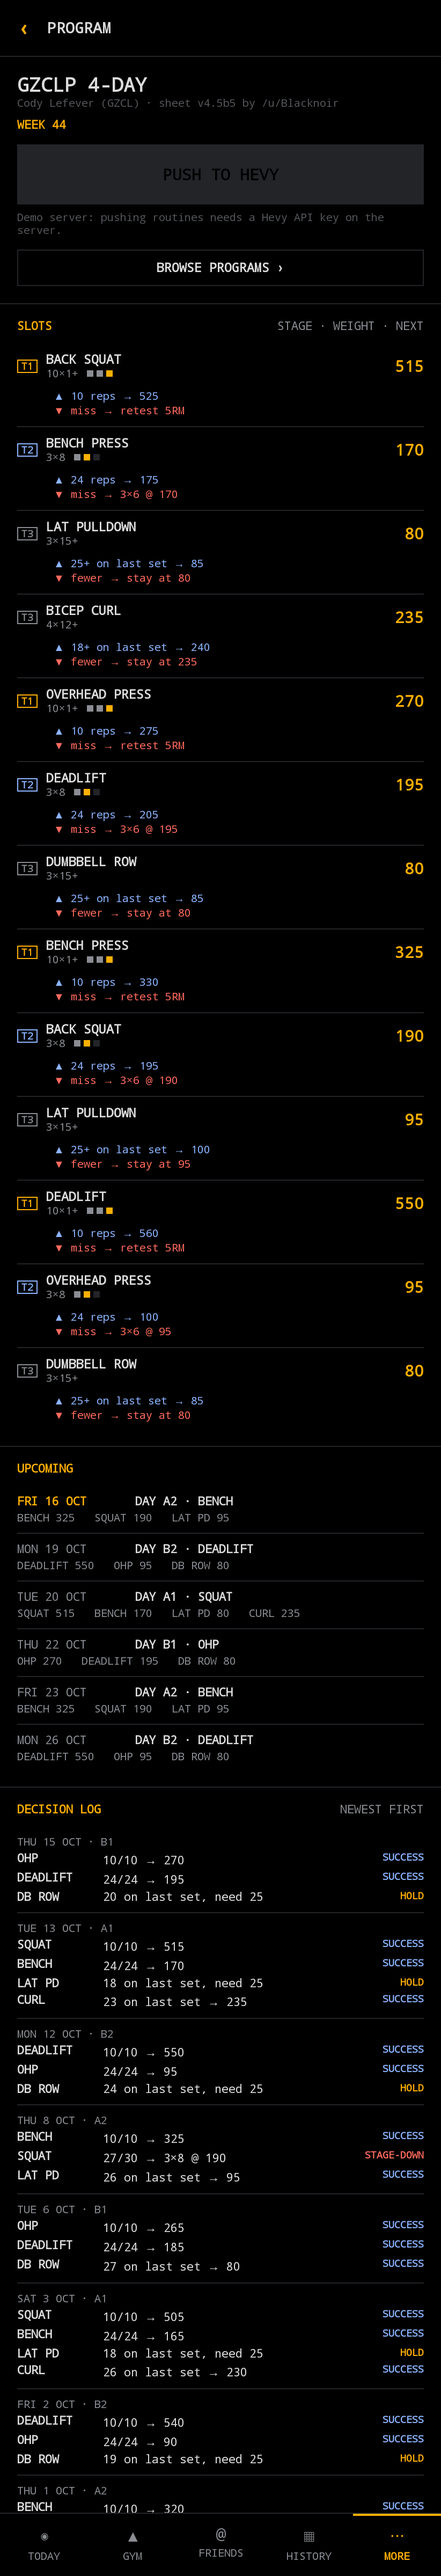
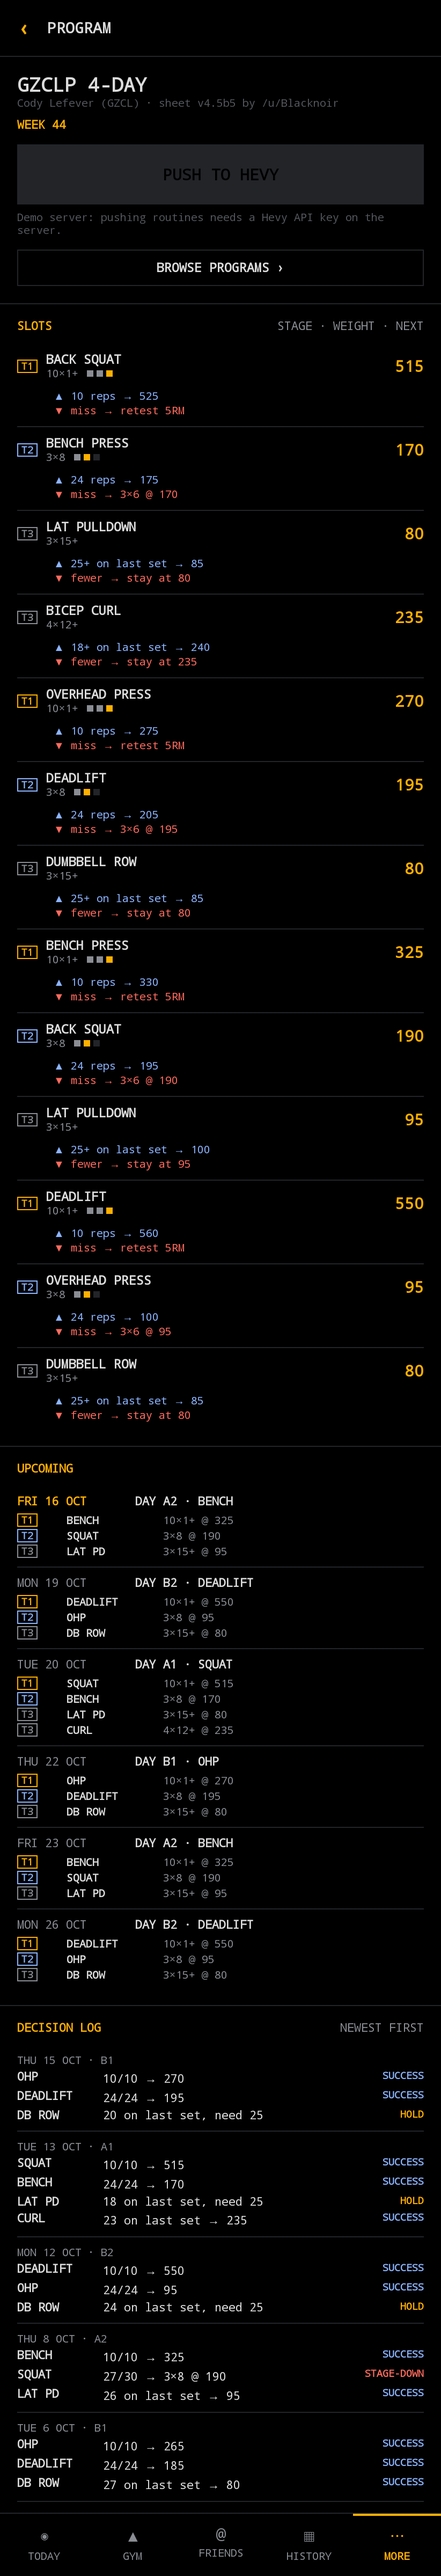
fix: whole-number cardio distance/duration for Hevy; Android upcoming one row per exercise (#111)
Hevy rejects fractional distance_meters/duration_seconds ("Expected integer,
received float"), so a cardio set logged in miles could never finish (502
on /api/live/finish). Round both on the server and in Android Direct mode.

Android's Upcoming list joined every exercise into one wrapped line and
dropped the scheme; show one row per exercise like iOS.

diff --git a/android/app/src/main/java/dev/ironterm/gym/Live.kt b/android/app/src/main/java/dev/ironterm/gym/Live.kt
@@ -18,6 +18,7 @@ import java.time.format.DateTimeFormatter
 import kotlin.math.floor
 import kotlin.math.max
 import kotlin.math.min
+import kotlin.math.roundToLong
 import kotlin.random.Random
 
 // Kotlin port of web/shared/live.ts: the in-progress gym session, logged set by set, written to
@@ -504,8 +505,9 @@ object Live {
                             type = x.type,
                             weight_kg = if (ex.isCardio) null else kg(x.weight),
                             reps = if (ex.isCardio) null else x.reps,
-                            distance_meters = x.distanceM,
-                            duration_seconds = x.durationSec,
+                            // Hevy rejects fractional values; miles → m is rarely whole.
+                            distance_meters = x.distanceM?.roundToLong(),
+                            duration_seconds = x.durationSec?.roundToLong(),
                             rpe = x.rpe,
                             custom_metric = null,
                         )
@@ -546,8 +548,8 @@ data class HevyWorkoutBody(val workout: Workout) {
         val type: String,
         val weight_kg: Double?,
         val reps: Int?,
-        val distance_meters: Double?,
-        val duration_seconds: Double?,
+        val distance_meters: Long?,
+        val duration_seconds: Long?,
         val rpe: Double?,
         val custom_metric: Double?,
     )

diff --git a/android/app/src/main/java/dev/ironterm/ui/MoreScreens.kt b/android/app/src/main/java/dev/ironterm/ui/MoreScreens.kt
@@ -298,7 +298,14 @@ fun ProgramScreen(state: UiState, data: DataUi, actions: AppActions, onBack: () 
                                     Mono(u.dayName.uppercase(), Modifier.weight(1f), size = 11.sp, bold = true, maxLines = 1)
                                 }
                                 Spacer(Modifier.height(3.dp))
-                                Mono(u.exercises.joinToString("   ") { "${it.short} ${it.summary.substringAfter("@").trim().let { w -> if (it.summary.contains("@")) w else it.summary }}" }, size = 10.sp, color = T.dim, maxLines = 2)
+                                // One row per exercise, like iOS: a joined line wrapped mid-list and dropped the scheme.
+                                u.exercises.forEach { e ->
+                                    Row(Modifier.fillMaxWidth().padding(top = 2.dp), verticalAlignment = Alignment.CenterVertically) {
+                                        Box(Modifier.width(46.dp)) { TierTag(e.tier) }
+                                        Mono(e.short, Modifier.width(90.dp), size = 10.sp, bold = true, maxLines = 1)
+                                        Mono(e.summary, Modifier.weight(1f), size = 10.sp, color = T.dim, maxLines = 1)
+                                    }
+                                }
                             }
                         }
                     }

diff --git a/web/shared/live.test.ts b/web/shared/live.test.ts
@@ -46,4 +46,13 @@ describe("live session", () => {
     expect(st.log[0].dayId).toBe("A1");
     expect(st.slots["a1-t1"].weight).toBe(195);
   });
+
+  it("sends whole-number cardio distance and duration (Hevy 400s on floats)", () => {
+    const s = emptySession("lb", "2026-11-07T21:36:54Z", "America/New_York");
+    s.exercises.push({ id: "b", lift: "cardio", title: "Recumbent Bike", templateId: "7FD2EC3E", restSeconds: 0, cardio: true,
+      sets: [{ type: "normal", weight: null, reps: null, durationSec: 2100.4, distanceM: 12874.751999999995, done: true }] });
+    const set = toHevyWorkout(s, () => "t").workout.exercises[0].sets[0];
+    expect(set.distance_meters).toBe(12875);
+    expect(set.duration_seconds).toBe(2100);
+  });
 });

diff --git a/web/shared/live.ts b/web/shared/live.ts
@@ -243,8 +243,9 @@ export function toHevyWorkout(s: LiveSession, templateFor: (ex: LiveExercise) =>
         type: x.type,
         weight_kg: ex.cardio ? null : kg(x.weight),
         reps: ex.cardio ? null : x.reps,
-        distance_meters: x.distanceM ?? null,
-        duration_seconds: x.durationSec ?? null,
+        // Hevy rejects fractional values ("Expected integer, received float"); miles → m is rarely whole.
+        distance_meters: x.distanceM == null ? null : Math.round(x.distanceM),
+        duration_seconds: x.durationSec == null ? null : Math.round(x.durationSec),
         rpe: x.rpe ?? null,
         custom_metric: null,
       })),
